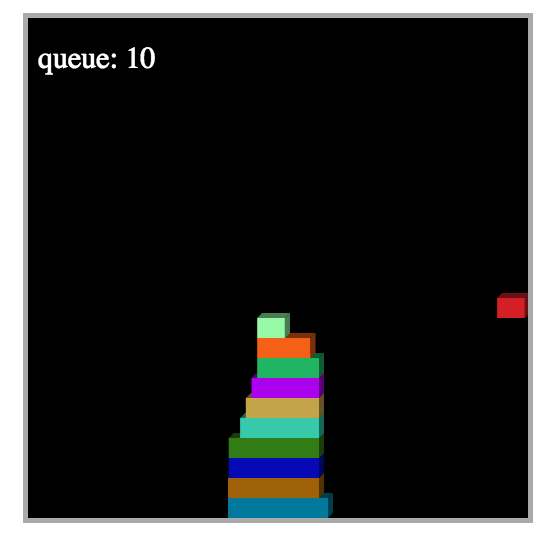
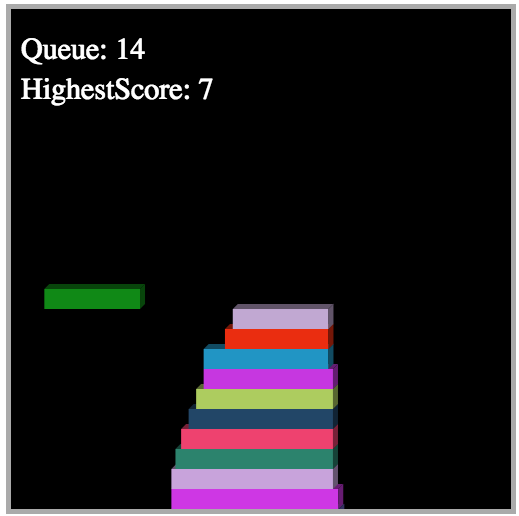
update picture

Changed region(s): [[0.0, 0.0, 1.0, 1.0]]

diff --git a/js/game.js b/js/game.js
@@ -55,11 +55,11 @@ Game.prototype.addRectangles = function (width, vel) {
 Game.prototype.drawScore = function(ctx){
     ctx.font = "30px san-serif";
     ctx.fillStyle = 'white';
-    ctx.fillText("queue: " + this.score, 10, 50);
+    ctx.fillText("Queue: " + this.score, 10, 50);
 };
 Game.prototype.drawHighestScore = function(ctx){
     ctx.font = "30px san-serif";
-    ctx.fillStyle = 'red';
+    ctx.fillStyle = 'white';
     ctx.fillText("HighestScore: " + this.highestScore, 10, 90);
 };
 

diff --git a/js/bundle.js b/js/bundle.js
@@ -132,11 +132,11 @@
 	Game.prototype.drawScore = function(ctx){
 	    ctx.font = "30px san-serif";
 	    ctx.fillStyle = 'white';
-	    ctx.fillText("queue: " + this.score, 10, 50);
+	    ctx.fillText("Queue: " + this.score, 10, 50);
 	};
 	Game.prototype.drawHighestScore = function(ctx){
 	    ctx.font = "30px san-serif";
-	    ctx.fillStyle = 'red';
+	    ctx.fillStyle = 'white';
 	    ctx.fillText("HighestScore: " + this.highestScore, 10, 90);
 	};
 	
